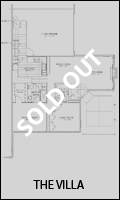
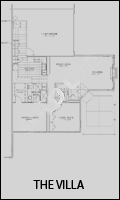
Updated thumbnails for chateau and villa; separators for the nav menu

Changed region(s): [[0.15, 0.42, 0.525, 0.69], [0.525, 0.24, 0.85, 0.45]]

diff --git a/public/homes.html b/public/homes.html
@@ -49,11 +49,7 @@
     <!--
     This div is outside of container-section2 which is set to 85%.  Image div needs to be a full width, patial height implementation.
     -->
-    <div class = 'top-image-homes'>
-      <!--<div class = 'top-image'>
-        <img src='./images/11_Grounds2.jpg'/>
-      </div>-->
-    </div>
+    <div class = 'top-image-homes'></div>
 
     <div class = "thumbnail-container">
         <h1>Our Homes</h1>
@@ -92,34 +88,15 @@
             <img src='./images/11_BeautifulEntry_1784.jpg'/>
           </div>
 
-          <h3>The Abbey</h3>
+          <h2>The Abbey</h2>
           <p>Imagine a home with 2 master suites, each with a private bath and large walk-in closet. The eat-in kitchen, with separate dining and long breakfast bar provide amble space for large family diners. The four-season sunroom is sure to be enjoyed all year long. Complete with laundry area plus generous storage makes this floor plan a hit!</p>
 
-          <h3>Privacy</h3>
-          <p>Outside entrance to each home has a private feel ∙ Attached two car garage permits you to come and go directly into your home ∙ Gated entrance provides controlled access</p>
 
-          <h3>Recreation</h3>
-
-          <p>Sit by the pool and relax with family and friends ∙ Reserve the clubhouse for private parties ∙ Enjoy leisure walks through the grounds or up the tempo in the fitness room to maintain good health</p>
-          <div class = "dynamicImg2" >
-            <img src='./images/aboutbottom.png'>
-          </div>
-          <h3>Carefree Living</h3>
-
-          <p>Travel worry-free with no exterior maintenance and zero yard work ∙ Devote more time to pursue your passions and develop your talents</p>
-
-          <h3>Convenience</h3>
-          <p>Close to several shopping centers, supermarkets, restaurants, and entertainment ∙ Minutes from major highways, healthcare and much more…</p>
-
-          <h3>Sense of Community</h3>
-          <p>Attend neighborhood events at the clubhouse with many opportunities to meet and interact ∙ Rediscover that “friendly” small town atmosphere with neighbors who know you by name and share the same zest for life</p>
-
-
-
-
-
+          <h2>The Canterbury</h2>
           <p>Enjoy this beautiful home’s spacious open concept living room with cathedral ceilings throughout. The master bedroom and bath boast his and her vanities, an enormous wall length mirror, private shower area/water closet plus a large walk-in closet. Use the second bedroom for guests, while the den or third bedroom is a perfect office retreat.</p>
 
+
+          <h3>Features and Options</h3>
 <p>
           <ul>
             <li>Spacious Floor Plan with Cathedral Ceilings</li>

diff --git a/scss/style.scss b/scss/style.scss
@@ -52,6 +52,14 @@ nav ul {
 nav ul li {
   display: inline-block;
   padding: 10px;
+  //margin-right: 0px;
+  border-right: 1px solid;
+  //padding: 0 20px;
+
+}
+
+nav ul li:last-child {
+  border-right: none;
 }
 
 nav li a {
@@ -602,6 +610,15 @@ nav li a:hover {
   letter-spacing: .05em;
   line-height: 200%;
   margin: 20px 20px 20px 0px;
+}
+
+.dynamicText h2 {
+  font-size:  1.3em;
+  //font-weight: bold;
+  font-weight: normal;
+  letter-spacing: .05em;
+  line-height: 200%;
+  margin: 20px 20px 10px 0px;
 }
 
 .dynamicText h3 {

diff --git a/public/style.css b/public/style.css
@@ -228,7 +228,11 @@ nav ul {
 
 nav ul li {
   display: inline-block;
-  padding: 10px; }
+  padding: 10px;
+  border-right: 1px solid; }
+
+nav ul li:last-child {
+  border-right: none; }
 
 nav li a {
   color: rgba(0, 0, 0, 0.75);
@@ -571,6 +575,13 @@ nav li a:hover {
   letter-spacing: .05em;
   line-height: 200%;
   margin: 20px 20px 20px 0px; }
+
+.dynamicText h2 {
+  font-size: 1.3em;
+  font-weight: normal;
+  letter-spacing: .05em;
+  line-height: 200%;
+  margin: 20px 20px 10px 0px; }
 
 .dynamicText h3 {
   font-size: 1em;

diff --git a/public/neighborhood.html b/public/neighborhood.html
@@ -45,13 +45,10 @@
     -->
 
     <div class = 'top-image-neighborhood'></div>
-
-
+    
     <div class = 'top-image'>
       <img src='./images/map.png'/>
     </div>
-
-
 
     <div class = "dynamicDesc">
       <div class = "container-section2">
